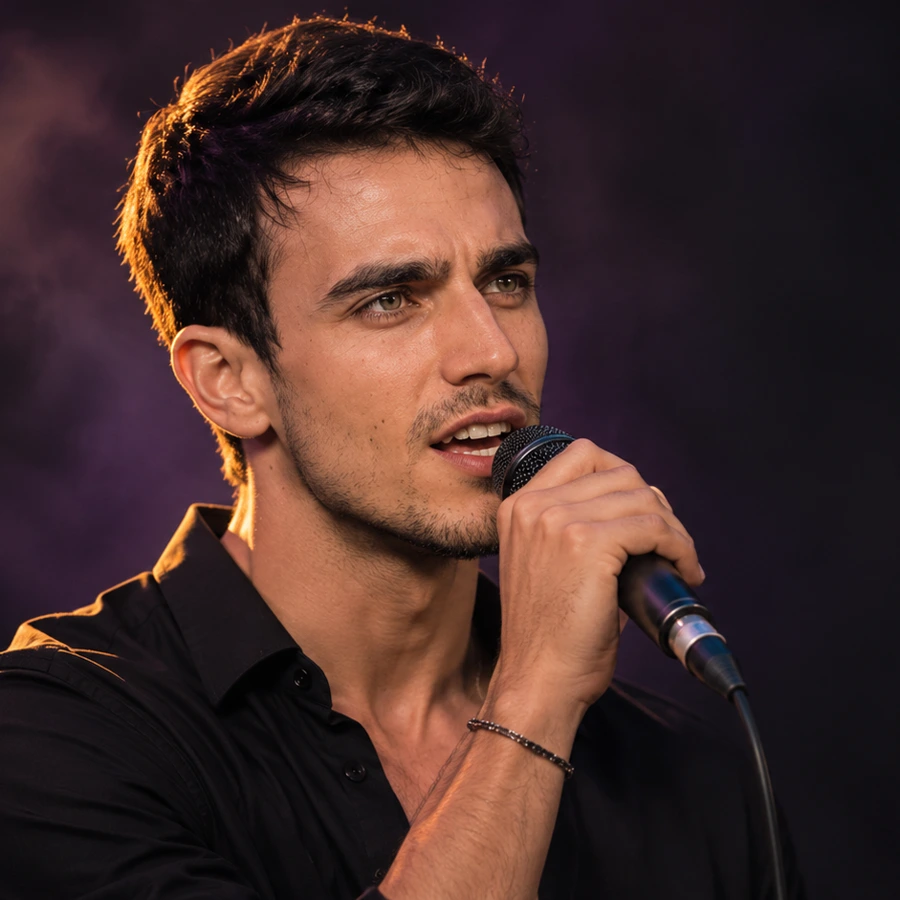
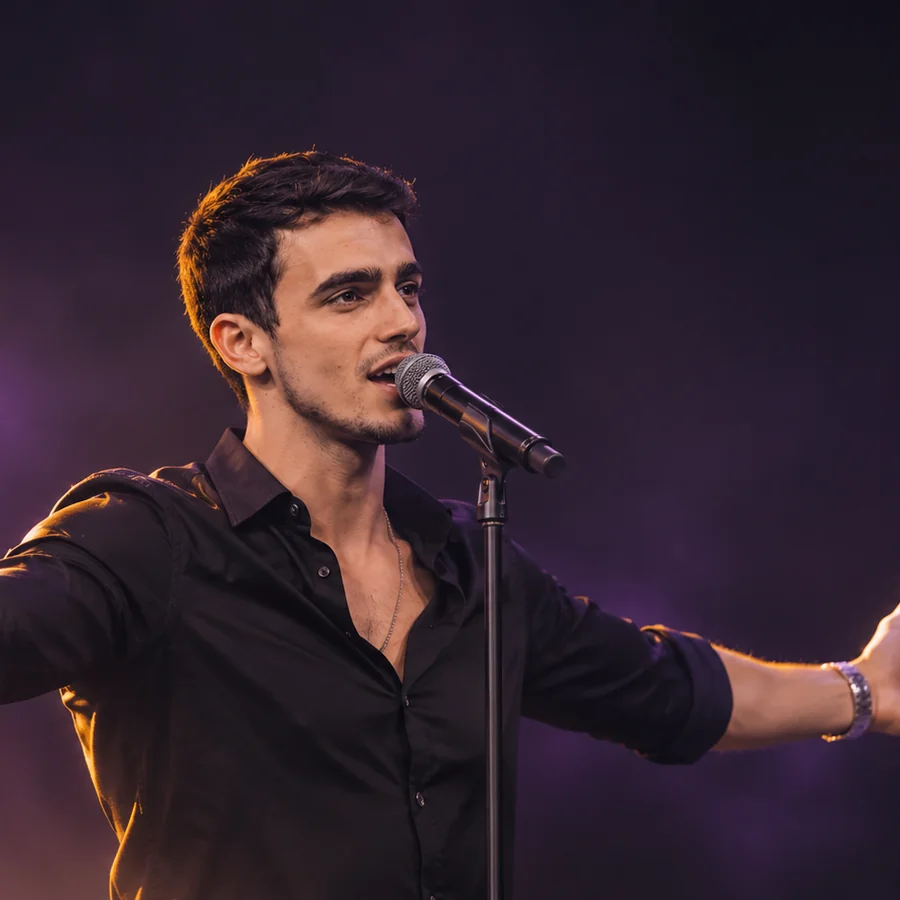
Add streaming links, new hero images, and fix artist name spelling
- Link Spotify, Apple Music, Deezer, TIDAL, YouTube and Instagram
- Replace desktop and mobile hero images
- Spell the name as עמרי across all pages
- Add cache-busting version to stylesheet and hero images

diff --git a/styles.css b/styles.css
@@ -1,18 +1,18 @@
 @font-face{font-family:Artist;src:url("assets/fonts/NotoSansHebrew-Regular.ttf");font-weight:400;font-display:swap}@font-face{font-family:Artist;src:url("assets/fonts/NotoSansHebrew-Bold.ttf");font-weight:700 900;font-display:swap}
-:root{--paper:#f6e9d5;--amber:#f8a936;--bg:#130e17;--line:#8f7f85;--muted:#bdb0bb}*{box-sizing:border-box}html{scroll-behavior:smooth}body{margin:0;background:var(--bg);color:var(--paper);font-family:Artist,Arial,sans-serif;line-height:1.6;background-image:radial-gradient(ellipse at 15% 25%,#3b233442,transparent 55%)}button,input,select,textarea{font:inherit}a{color:inherit;text-decoration:none}button,a{touch-action:manipulation}button{cursor:pointer}button:disabled{cursor:default}a,button,input,select,textarea{outline-offset:5px}:focus-visible{outline:2px solid var(--amber)}button{color:inherit}img{display:block;max-width:100%}.container{width:90%;max-width:1320px;margin:auto}.header{height:80px;display:flex;align-items:center;justify-content:space-between;position:relative;z-index:5}.logo{font-size:32px;font-weight:700;line-height:1.1}.header .logo{order:2}nav{display:flex;gap:44px}nav a{padding:10px 4px}nav a[aria-current]{color:var(--amber);border-bottom:2px solid}.menu{display:none;background:none;border:0;font-size:25px;padding:8px}.hero{position:relative;min-height:440px;display:flex;align-items:center;isolation:isolate}.hero:before{content:"";position:absolute;inset:-80px 0 -20px;z-index:-1;background:linear-gradient(0deg,var(--bg),transparent 15%),linear-gradient(270deg,var(--bg) 0%,#130e17dd 24%,transparent 64%),url("assets/images/hero.webp") left center/70% auto no-repeat}.hero-copy{width:48%;text-align:center;margin-inline-start:0;margin-inline-end:auto}.hero h1{font-size:clamp(60px,8vw,116px);font-weight:700;line-height:1.2;letter-spacing:-5px;margin:0}.brush{width:225px;height:18px;margin:8px auto 25px;background:var(--amber);clip-path:polygon(0 83%,73% 0,72% 20%,100% 7%,64% 40%,28% 90%,34% 58%,0 100%);transform:rotate(-3deg)}.cta{border:0;display:inline-flex;justify-content:center;align-items:center;gap:12px;background:var(--amber);color:#261910;padding:9px 38px;font-size:25px;font-weight:700;min-height:48px;border-radius:2px;box-shadow:inset 0 0 25px #f9cf6230}.cta:hover{background:#ffc064}.section{margin-block:22px 36px}.section-heading{display:flex;align-items:center;gap:20px;margin-bottom:22px}.section-heading h2{font-size:36px;line-height:1.2;margin:0}.section-heading:after{content:"";height:1px;background:var(--line);flex:1}.number{color:var(--amber);font-size:24px;font-style:italic;font-family:Arial}.songs{display:grid;grid-template-columns:repeat(3,1fr);gap:6%;padding-inline:7%}.song{text-align:center}.song img{width:100%;aspect-ratio:1.2;object-fit:cover}.song h3{font-size:24px;margin:5px 0 0}.text-button{border:0;background:none;padding:5px 10px;min-height:44px;color:var(--amber);font-weight:700;font-size:18px}.text-button:hover{text-decoration:underline}.platforms{display:flex;align-items:center;justify-content:center;flex-wrap:wrap;gap:0;border-block:1px solid #6f5c6e;padding:12px 0;margin-block:22px}.platform{display:flex;align-items:center;gap:10px;padding:2px 26px;min-height:44px;direction:ltr;border-left:1px solid #a28a9b;font-family:Arial,sans-serif;font-size:20px}.platform:last-child{border-left:0}.platform svg{width:27px;height:27px;fill:currentColor}.platform:hover{color:var(--amber)}.video-grid{display:grid;grid-template-columns:repeat(2,1fr);gap:38px;padding-inline:5%}.video-button{display:block;width:100%;padding:0;border:0;background:none;overflow:hidden}.video-button img{width:100%;aspect-ratio:2.87;object-fit:cover;transition:transform .3s}.video-button:hover img{transform:scale(1.04)}.all-videos{text-align:center;margin:6px 0 0}.footer{display:flex;align-items:center;justify-content:space-between;border-top:1px solid var(--line);padding-block:14px;margin-top:12px}.footer .logo{font-size:24px}.footer .platforms{border:0;margin:0;padding:0;gap:16px}.footer .platform{border:0;padding:0}.footer .platform-label{display:none}.footer svg{width:22px;height:22px}.page-title{font-size:clamp(40px,6vw,76px);margin:35px 0 10px;line-height:1.2}.intro{color:var(--muted);margin-bottom:30px}.featured{max-width:1050px;margin:30px auto}.featured .video-button img{aspect-ratio:16/9}.video-caption{display:flex;justify-content:space-between;align-items:center;gap:15px;padding-block:9px}.video-caption h2,.video-caption h3{margin:0;font-size:22px}.video-caption span{color:var(--muted);font-size:14px}.gallery{padding:0;gap:32px}.gallery .video-button img{aspect-ratio:16/9}.contact-layout{display:grid;grid-template-columns:1.5fr 1fr;gap:10%;margin:40px 0 70px}label{display:grid;gap:8px;margin-bottom:22px}input,select,textarea{border:1px solid #6a5368;background:#211825;color:var(--paper);border-radius:3px;padding:13px;width:100%}textarea{min-height:160px;resize:vertical}aside{border-right:1px solid #755674;padding-right:35px}aside h2{font-size:28px}aside p{color:var(--muted)}.error{color:#ffb1ae;font-size:14px}.status{padding:16px;border:1px solid #aa9164}.notice{color:var(--muted);font-size:13px}.field-error{border-color:#ffb1ae}dialog{width:min(92%,600px);background:#201725;color:var(--paper);border:1px solid #967483;border-radius:5px;padding:30px}dialog::backdrop{background:#09050be8}dialog h2{font-size:30px;margin:0 0 20px}dialog .platforms{justify-content:start}dialog .platform{border:0;padding:12px}.close{float:left;border:1px solid #967483;background:none;min-width:44px;min-height:44px}dialog video{width:100%;margin-top:16px}.skip{position:absolute;top:-100px;right:10px;background:var(--amber);color:#111;padding:10px;z-index:50}.skip:focus{top:10px}[hidden]{display:none!important}
+:root{--paper:#f6e9d5;--amber:#f8a936;--bg:#130e17;--line:#8f7f85;--muted:#bdb0bb}*{box-sizing:border-box}html{scroll-behavior:smooth}body{margin:0;background:var(--bg);color:var(--paper);font-family:Artist,Arial,sans-serif;line-height:1.6;background-image:radial-gradient(ellipse at 15% 25%,#3b233442,transparent 55%)}button,input,select,textarea{font:inherit}a{color:inherit;text-decoration:none}button,a{touch-action:manipulation}button{cursor:pointer}button:disabled{cursor:default}a,button,input,select,textarea{outline-offset:5px}:focus-visible{outline:2px solid var(--amber)}button{color:inherit}img{display:block;max-width:100%}.container{width:90%;max-width:1320px;margin:auto}.header{height:80px;display:flex;align-items:center;justify-content:space-between;position:relative;z-index:5}.logo{font-size:32px;font-weight:700;line-height:1.1}.header .logo{order:2}nav{display:flex;gap:44px}nav a{padding:10px 4px}nav a[aria-current]{color:var(--amber);border-bottom:2px solid}.menu{display:none;background:none;border:0;font-size:25px;padding:8px}.hero{position:relative;min-height:440px;display:flex;align-items:center;isolation:isolate}.hero:before{content:"";position:absolute;inset:-80px 0 -20px;z-index:-1;background:linear-gradient(0deg,var(--bg),transparent 15%),linear-gradient(270deg,var(--bg) 0%,#130e17dd 24%,transparent 64%),url("assets/images/hero.webp?v=2") left center/70% auto no-repeat}.hero-copy{width:48%;text-align:center;margin-inline-start:0;margin-inline-end:auto}.hero h1{font-size:clamp(60px,8vw,116px);font-weight:700;line-height:1.2;letter-spacing:-5px;margin:0}.brush{width:225px;height:18px;margin:8px auto 25px;background:var(--amber);clip-path:polygon(0 83%,73% 0,72% 20%,100% 7%,64% 40%,28% 90%,34% 58%,0 100%);transform:rotate(-3deg)}.cta{border:0;display:inline-flex;justify-content:center;align-items:center;gap:12px;background:var(--amber);color:#261910;padding:9px 38px;font-size:25px;font-weight:700;min-height:48px;border-radius:2px;box-shadow:inset 0 0 25px #f9cf6230}.cta:hover{background:#ffc064}.section{margin-block:22px 36px}.section-heading{display:flex;align-items:center;gap:20px;margin-bottom:22px}.section-heading h2{font-size:36px;line-height:1.2;margin:0}.section-heading:after{content:"";height:1px;background:var(--line);flex:1}.number{color:var(--amber);font-size:24px;font-style:italic;font-family:Arial}.songs{display:grid;grid-template-columns:repeat(3,1fr);gap:6%;padding-inline:7%}.song{text-align:center}.song img{width:100%;aspect-ratio:1.2;object-fit:cover}.song h3{font-size:24px;margin:5px 0 0}.text-button{border:0;background:none;padding:5px 10px;min-height:44px;color:var(--amber);font-weight:700;font-size:18px}.text-button:hover{text-decoration:underline}.platforms{display:flex;align-items:center;justify-content:center;flex-wrap:wrap;gap:0;border-block:1px solid #6f5c6e;padding:12px 0;margin-block:22px}.platform{display:flex;align-items:center;gap:10px;padding:2px 26px;min-height:44px;direction:ltr;border-left:1px solid #a28a9b;font-family:Arial,sans-serif;font-size:20px}.platform:last-child{border-left:0}.platform svg{width:27px;height:27px;fill:currentColor}.platform:hover{color:var(--amber)}.video-grid{display:grid;grid-template-columns:repeat(2,1fr);gap:38px;padding-inline:5%}.video-button{display:block;width:100%;padding:0;border:0;background:none;overflow:hidden}.video-button img{width:100%;aspect-ratio:2.87;object-fit:cover;transition:transform .3s}.video-button:hover img{transform:scale(1.04)}.all-videos{text-align:center;margin:6px 0 0}.footer{display:flex;align-items:center;justify-content:space-between;border-top:1px solid var(--line);padding-block:14px;margin-top:12px}.footer .logo{font-size:24px}.footer .platforms{border:0;margin:0;padding:0;gap:16px}.footer .platform{border:0;padding:0}.footer .platform-label{display:none}.footer svg{width:22px;height:22px}.page-title{font-size:clamp(40px,6vw,76px);margin:35px 0 10px;line-height:1.2}.intro{color:var(--muted);margin-bottom:30px}.featured{max-width:1050px;margin:30px auto}.featured .video-button img{aspect-ratio:16/9}.video-caption{display:flex;justify-content:space-between;align-items:center;gap:15px;padding-block:9px}.video-caption h2,.video-caption h3{margin:0;font-size:22px}.video-caption span{color:var(--muted);font-size:14px}.gallery{padding:0;gap:32px}.gallery .video-button img{aspect-ratio:16/9}.contact-layout{display:grid;grid-template-columns:1.5fr 1fr;gap:10%;margin:40px 0 70px}label{display:grid;gap:8px;margin-bottom:22px}input,select,textarea{border:1px solid #6a5368;background:#211825;color:var(--paper);border-radius:3px;padding:13px;width:100%}textarea{min-height:160px;resize:vertical}aside{border-right:1px solid #755674;padding-right:35px}aside h2{font-size:28px}aside p{color:var(--muted)}.error{color:#ffb1ae;font-size:14px}.status{padding:16px;border:1px solid #aa9164}.notice{color:var(--muted);font-size:13px}.field-error{border-color:#ffb1ae}dialog{width:min(92%,600px);background:#201725;color:var(--paper);border:1px solid #967483;border-radius:5px;padding:30px}dialog::backdrop{background:#09050be8}dialog h2{font-size:30px;margin:0 0 20px}dialog .platforms{justify-content:start}dialog .platform{border:0;padding:12px}.close{float:left;border:1px solid #967483;background:none;min-width:44px;min-height:44px}dialog video{width:100%;margin-top:16px}.skip{position:absolute;top:-100px;right:10px;background:var(--amber);color:#111;padding:10px;z-index:50}.skip:focus{top:10px}[hidden]{display:none!important}
 @media(min-width:1600px){.hero{min-height:540px}}
-@media(max-width:700px){.container{width:90%}.header{height:60px}.header .logo{order:0;font-size:25px}.menu{display:block}.header nav{display:none;position:absolute;top:60px;right:-5.55%;left:-5.55%;background:#201625;padding:15px 5%;flex-direction:column;gap:0;box-shadow:0 15px 35px #0008}.header nav.open{display:flex}.header nav a{padding:14px}.hero{min-height:370px;align-items:end}.hero:before{inset:-60px -5.55% 0;background:linear-gradient(0deg,var(--bg),#130e1700 70%),url("assets/images/hero-mobile.webp") center top/cover no-repeat}.hero-copy{width:100%;padding-top:190px}.hero h1{font-size:54px;letter-spacing:-2px}.brush{width:160px;height:12px;margin:0 auto 15px}.cta{font-size:20px;padding:5px 28px;min-height:44px}.section{margin-block:25px 12px}.section-heading{gap:12px;margin-bottom:10px}.section-heading h2{font-size:25px}.number{font-size:19px}.songs{display:flex;flex-direction:column;padding:0;gap:0}.song{display:grid;grid-template-columns:80px 1fr;column-gap:16px;align-items:center;border-bottom:1px solid #675365;padding:9px 0;text-align:right}.song img{grid-row:1/3;width:80px;height:76px;aspect-ratio:auto}.song h3{font-size:20px;align-self:end;margin:0}.song .text-button{justify-self:start;align-self:start;font-size:16px;padding:0;min-height:32px}.platforms{margin-block:12px;padding-block:8px;row-gap:0}.platform{font-size:12px;padding:0 10px;gap:5px;min-height:36px}.platform svg{width:19px;height:19px}.platform:nth-child(3){border-left:0}.video-grid{grid-template-columns:1fr;padding:0;gap:12px}.video-button img{aspect-ratio:2.4}.all-videos{margin-block:0}.text-button{font-size:16px}.footer{padding-block:12px}.footer .logo{font-size:20px}.footer .platforms{gap:12px}.footer svg{width:17px;height:17px}.footer .platform{min-height:28px}.page-title{font-size:44px;margin-top:25px}.video-caption{align-items:start;flex-direction:column;gap:0}.video-caption h2,.video-caption h3{font-size:19px}.featured{margin-top:20px}.contact-layout{grid-template-columns:1fr;gap:30px}aside{padding:20px 0;border-right:0;border-top:1px solid #755674}dialog{padding:20px}dialog .platform{font-size:17px}.intro{font-size:15px}}
+@media(max-width:700px){.container{width:90%}.header{height:60px}.header .logo{order:0;font-size:25px}.menu{display:block}.header nav{display:none;position:absolute;top:60px;right:-5.55%;left:-5.55%;background:#201625;padding:15px 5%;flex-direction:column;gap:0;box-shadow:0 15px 35px #0008}.header nav.open{display:flex}.header nav a{padding:14px}.hero{min-height:370px;align-items:end}.hero:before{inset:-60px -5.55% 0;background:linear-gradient(0deg,var(--bg),#130e1700 70%),url("assets/images/hero-mobile.webp?v=2") center top/cover no-repeat}.hero-copy{width:100%;padding-top:190px}.hero h1{font-size:54px;letter-spacing:-2px}.brush{width:160px;height:12px;margin:0 auto 15px}.cta{font-size:20px;padding:5px 28px;min-height:44px}.section{margin-block:25px 12px}.section-heading{gap:12px;margin-bottom:10px}.section-heading h2{font-size:25px}.number{font-size:19px}.songs{display:flex;flex-direction:column;padding:0;gap:0}.song{display:grid;grid-template-columns:80px 1fr;column-gap:16px;align-items:center;border-bottom:1px solid #675365;padding:9px 0;text-align:right}.song img{grid-row:1/3;width:80px;height:76px;aspect-ratio:auto}.song h3{font-size:20px;align-self:end;margin:0}.song .text-button{justify-self:start;align-self:start;font-size:16px;padding:0;min-height:32px}.platforms{margin-block:12px;padding-block:8px;row-gap:0}.platform{font-size:12px;padding:0 10px;gap:5px;min-height:36px}.platform svg{width:19px;height:19px}.platform:nth-child(3){border-left:0}.video-grid{grid-template-columns:1fr;padding:0;gap:12px}.video-button img{aspect-ratio:2.4}.all-videos{margin-block:0}.text-button{font-size:16px}.footer{padding-block:12px}.footer .logo{font-size:20px}.footer .platforms{gap:12px}.footer svg{width:17px;height:17px}.footer .platform{min-height:28px}.page-title{font-size:44px;margin-top:25px}.video-caption{align-items:start;flex-direction:column;gap:0}.video-caption h2,.video-caption h3{font-size:19px}.featured{margin-top:20px}.contact-layout{grid-template-columns:1fr;gap:30px}aside{padding:20px 0;border-right:0;border-top:1px solid #755674}dialog{padding:20px}dialog .platform{font-size:17px}.intro{font-size:15px}}
 @media(prefers-reduced-motion:reduce){html{scroll-behavior:auto}*{transition:none!important}}
 
 /* Omri Israel imagery and responsive art direction. */
-.hero:before{background:linear-gradient(0deg,var(--bg),transparent 20%),linear-gradient(270deg,var(--bg) 0%,#130e1790 25%,transparent 58%),url("assets/images/hero.webp") left top/100% auto no-repeat}
+.hero:before{background:linear-gradient(0deg,var(--bg),transparent 20%),linear-gradient(270deg,var(--bg) 0%,#130e1790 25%,transparent 58%),url("assets/images/hero.webp?v=2") left top/100% auto no-repeat}
 .hero h1{font-size:clamp(48px,6.7vw,96px);letter-spacing:-3px}
 .video-button{position:relative}
 .video-button:after{content:"▶";position:absolute;inset:0;margin:auto;width:52px;height:52px;border:2px solid var(--paper);border-radius:50%;background:#130e1770;display:grid;place-items:center;font-size:22px;color:var(--paper);pointer-events:none}
 .video-button img{object-position:center 25%}
 .song img{object-position:center 35%}
 @media(max-width:700px){
- .hero:before{background:linear-gradient(0deg,var(--bg),#130e1700 73%),url("assets/images/hero-mobile.webp") center top/100% auto no-repeat}
+ .hero:before{background:linear-gradient(0deg,var(--bg),#130e1700 73%),url("assets/images/hero-mobile.webp?v=2") center top/100% auto no-repeat}
  .hero h1{font-size:clamp(36px,11vw,54px);letter-spacing:-1.5px}
  .hero-copy{padding-top:220px}
  .header .logo{font-size:23px}

diff --git a/index.html b/index.html
@@ -1,2 +1,2 @@
 <!doctype html>
-<html lang="he" dir="rtl"><head><meta charset="utf-8"><meta name="viewport" content="width=device-width,initial-scale=1"><meta name="theme-color" content="#130e17"><meta name="description" content="מוזיקה, רגעים מהופעות ויצירת קשר עם עומרי ישראל."><title>בית | עומרי ישראל</title><link rel="stylesheet" href="styles.css"><script defer src="site.js"></script></head><body><a class="skip" href="#main">דילוג לתוכן</a><div class="container"><header class="header"><a href="index.html" class="logo">עומרי ישראל</a><button class="menu" aria-controls="navigation" aria-expanded="false" aria-label="פתיחת תפריט">☰</button><nav id="navigation" aria-label="ניווט ראשי"><a href="index.html" aria-current="page">בית</a><a href="videos.html">וידאו מהופעות</a><a href="contact.html">יצירת קשר</a></nav></header><main id="main"><section class="hero"><div class="hero-copy"><h1>עומרי ישראל</h1><div class="brush" aria-hidden="true"></div><a class="cta" href="#songs">להאזנה לשירים ‹</a></div></section><section class="section" id="songs"><div class="section-heading"><span class="number">01/</span><h2>שירים נבחרים</h2></div><div class="songs"><article class="song"><img src="assets/images/album-1.webp" srcset="assets/images/album-1-mobile.webp 300w, assets/images/album-1.webp 1254w" sizes="(max-width: 700px) 80px, 27vw" alt="עטיפת שיר ראשון" width="227" height="190"><h3>שיר ראשון</h3><button class="text-button" data-song="0">איפה לשמוע ‹</button></article><article class="song"><img src="assets/images/album-2.webp" srcset="assets/images/album-2-mobile.webp 300w, assets/images/album-2.webp 1254w" sizes="(max-width: 700px) 80px, 27vw" alt="עטיפת שיר שני" width="227" height="190"><h3>שיר שני</h3><button class="text-button" data-song="1">איפה לשמוע ‹</button></article><article class="song"><img src="assets/images/album-3.webp" srcset="assets/images/album-3-mobile.webp 300w, assets/images/album-3.webp 1254w" sizes="(max-width: 700px) 80px, 27vw" alt="עטיפת שיר שלישי" width="227" height="190"><h3>שיר שלישי</h3><button class="text-button" data-song="2">איפה לשמוע ‹</button></article></div></section><div class="platforms" data-platforms aria-label="פלטפורמות האמן"></div><section class="section"><div class="section-heading"><span class="number">02/</span><h2>רגעים מהופעות</h2></div><div class="video-grid"><article><button class="video-button" data-video="1" aria-label="ניגון לילה של מוזיקה"><img src="assets/images/live-2.webp" srcset="assets/images/live-2-mobile.webp 780w, assets/images/live-2.webp 1672w" sizes="(max-width: 700px) 90vw, 45vw" alt="עומרי ישראל על הבמה" loading="lazy"></button></article><article><button class="video-button" data-video="0" aria-label="ניגון רגעים מהבמה"><img src="assets/images/live-1.webp" srcset="assets/images/live-1-mobile.webp 780w, assets/images/live-1.webp 1672w" sizes="(max-width: 700px) 90vw, 45vw" alt="עומרי ישראל על הבמה" loading="lazy"></button></article></div><p class="all-videos"><a class="text-button" href="videos.html">לכל הסרטונים ‹</a></p></section></main><footer class="footer"><a class="logo" href="index.html">עומרי ישראל</a><div class="platforms" data-platforms aria-label="קישורי האמן"></div></footer></div><dialog aria-labelledby="dialog-title"><button class="close" aria-label="סגירה">✕</button><h2 id="dialog-title"></h2><div id="dialog-content"></div></dialog></body></html>
+<html lang="he" dir="rtl"><head><meta charset="utf-8"><meta name="viewport" content="width=device-width,initial-scale=1"><meta name="theme-color" content="#130e17"><meta name="description" content="מוזיקה, רגעים מהופעות ויצירת קשר עם עמרי ישראל."><title>בית | עמרי ישראל</title><link rel="stylesheet" href="styles.css?v=2"><script defer src="site.js"></script></head><body><a class="skip" href="#main">דילוג לתוכן</a><div class="container"><header class="header"><a href="index.html" class="logo">עמרי ישראל</a><button class="menu" aria-controls="navigation" aria-expanded="false" aria-label="פתיחת תפריט">☰</button><nav id="navigation" aria-label="ניווט ראשי"><a href="index.html" aria-current="page">בית</a><a href="videos.html">וידאו מהופעות</a><a href="contact.html">יצירת קשר</a></nav></header><main id="main"><section class="hero"><div class="hero-copy"><h1>עמרי ישראל</h1><div class="brush" aria-hidden="true"></div><a class="cta" href="#songs">להאזנה לשירים ‹</a></div></section><section class="section" id="songs"><div class="section-heading"><span class="number">01/</span><h2>שירים נבחרים</h2></div><div class="songs"><article class="song"><img src="assets/images/album-1.webp" srcset="assets/images/album-1-mobile.webp 300w, assets/images/album-1.webp 1254w" sizes="(max-width: 700px) 80px, 27vw" alt="עטיפת שיר ראשון" width="227" height="190"><h3>שיר ראשון</h3><button class="text-button" data-song="0">איפה לשמוע ‹</button></article><article class="song"><img src="assets/images/album-2.webp" srcset="assets/images/album-2-mobile.webp 300w, assets/images/album-2.webp 1254w" sizes="(max-width: 700px) 80px, 27vw" alt="עטיפת שיר שני" width="227" height="190"><h3>שיר שני</h3><button class="text-button" data-song="1">איפה לשמוע ‹</button></article><article class="song"><img src="assets/images/album-3.webp" srcset="assets/images/album-3-mobile.webp 300w, assets/images/album-3.webp 1254w" sizes="(max-width: 700px) 80px, 27vw" alt="עטיפת שיר שלישי" width="227" height="190"><h3>שיר שלישי</h3><button class="text-button" data-song="2">איפה לשמוע ‹</button></article></div></section><div class="platforms" data-platforms aria-label="פלטפורמות האמן"></div><section class="section"><div class="section-heading"><span class="number">02/</span><h2>רגעים מהופעות</h2></div><div class="video-grid"><article><button class="video-button" data-video="1" aria-label="ניגון לילה של מוזיקה"><img src="assets/images/live-2.webp" srcset="assets/images/live-2-mobile.webp 780w, assets/images/live-2.webp 1672w" sizes="(max-width: 700px) 90vw, 45vw" alt="עמרי ישראל על הבמה" loading="lazy"></button></article><article><button class="video-button" data-video="0" aria-label="ניגון רגעים מהבמה"><img src="assets/images/live-1.webp" srcset="assets/images/live-1-mobile.webp 780w, assets/images/live-1.webp 1672w" sizes="(max-width: 700px) 90vw, 45vw" alt="עמרי ישראל על הבמה" loading="lazy"></button></article></div><p class="all-videos"><a class="text-button" href="videos.html">לכל הסרטונים ‹</a></p></section></main><footer class="footer"><a class="logo" href="index.html">עמרי ישראל</a><div class="platforms" data-platforms aria-label="קישורי האמן"></div></footer></div><dialog aria-labelledby="dialog-title"><button class="close" aria-label="סגירה">✕</button><h2 id="dialog-title"></h2><div id="dialog-content"></div></dialog></body></html>

diff --git a/videos.html b/videos.html
@@ -1,2 +1,2 @@
 <!doctype html>
-<html lang="he" dir="rtl"><head><meta charset="utf-8"><meta name="viewport" content="width=device-width,initial-scale=1"><meta name="theme-color" content="#130e17"><meta name="description" content="מוזיקה, רגעים מהופעות ויצירת קשר עם עומרי ישראל."><title>וידאו מהופעות | עומרי ישראל</title><link rel="stylesheet" href="styles.css"><script defer src="site.js"></script></head><body><a class="skip" href="#main">דילוג לתוכן</a><div class="container"><header class="header"><a href="index.html" class="logo">עומרי ישראל</a><button class="menu" aria-controls="navigation" aria-expanded="false" aria-label="פתיחת תפריט">☰</button><nav id="navigation" aria-label="ניווט ראשי"><a href="index.html">בית</a><a href="videos.html" aria-current="page">וידאו מהופעות</a><a href="contact.html">יצירת קשר</a></nav></header><main id="main"><h1 class="page-title">וידאו מהופעות</h1><p class="intro">רגעים מהבמה. קרוב למוזיקה.</p><div class="featured"><article><button class="video-button" data-video="0" aria-label="ניגון רגעים מהבמה"><img src="assets/images/live-1.webp" srcset="assets/images/live-1-mobile.webp 780w, assets/images/live-1.webp 1672w" sizes="(max-width: 700px) 90vw, 45vw" alt="עומרי ישראל על הבמה" loading="lazy"></button><div class="video-caption"><h3>רגעים מהבמה</h3><span>[מקום ההופעה] · [תאריך]</span></div></article></div><section class="section"><div class="section-heading"><span class="number">01/</span><h2>עוד מההופעות</h2></div><div class="video-grid gallery"><article><button class="video-button" data-video="1" aria-label="ניגון לילה של מוזיקה"><img src="assets/images/live-2.webp" srcset="assets/images/live-2-mobile.webp 780w, assets/images/live-2.webp 1672w" sizes="(max-width: 700px) 90vw, 45vw" alt="עומרי ישראל על הבמה" loading="lazy"></button><div class="video-caption"><h3>לילה של מוזיקה</h3><span>[מקום ההופעה] · [תאריך]</span></div></article><article><button class="video-button" data-video="0" aria-label="ניגון רגעים מהבמה"><img src="assets/images/live-1.webp" srcset="assets/images/live-1-mobile.webp 780w, assets/images/live-1.webp 1672w" sizes="(max-width: 700px) 90vw, 45vw" alt="עומרי ישראל על הבמה" loading="lazy"></button><div class="video-caption"><h3>רגעים מהבמה</h3><span>[מקום ההופעה] · [תאריך]</span></div></article></div></section></main><footer class="footer"><a class="logo" href="index.html">עומרי ישראל</a><div class="platforms" data-platforms aria-label="קישורי האמן"></div></footer></div><dialog aria-labelledby="dialog-title"><button class="close" aria-label="סגירה">✕</button><h2 id="dialog-title"></h2><div id="dialog-content"></div></dialog></body></html>
+<html lang="he" dir="rtl"><head><meta charset="utf-8"><meta name="viewport" content="width=device-width,initial-scale=1"><meta name="theme-color" content="#130e17"><meta name="description" content="מוזיקה, רגעים מהופעות ויצירת קשר עם עמרי ישראל."><title>וידאו מהופעות | עמרי ישראל</title><link rel="stylesheet" href="styles.css?v=2"><script defer src="site.js"></script></head><body><a class="skip" href="#main">דילוג לתוכן</a><div class="container"><header class="header"><a href="index.html" class="logo">עמרי ישראל</a><button class="menu" aria-controls="navigation" aria-expanded="false" aria-label="פתיחת תפריט">☰</button><nav id="navigation" aria-label="ניווט ראשי"><a href="index.html">בית</a><a href="videos.html" aria-current="page">וידאו מהופעות</a><a href="contact.html">יצירת קשר</a></nav></header><main id="main"><h1 class="page-title">וידאו מהופעות</h1><p class="intro">רגעים מהבמה. קרוב למוזיקה.</p><div class="featured"><article><button class="video-button" data-video="0" aria-label="ניגון רגעים מהבמה"><img src="assets/images/live-1.webp" srcset="assets/images/live-1-mobile.webp 780w, assets/images/live-1.webp 1672w" sizes="(max-width: 700px) 90vw, 45vw" alt="עמרי ישראל על הבמה" loading="lazy"></button><div class="video-caption"><h3>רגעים מהבמה</h3><span>[מקום ההופעה] · [תאריך]</span></div></article></div><section class="section"><div class="section-heading"><span class="number">01/</span><h2>עוד מההופעות</h2></div><div class="video-grid gallery"><article><button class="video-button" data-video="1" aria-label="ניגון לילה של מוזיקה"><img src="assets/images/live-2.webp" srcset="assets/images/live-2-mobile.webp 780w, assets/images/live-2.webp 1672w" sizes="(max-width: 700px) 90vw, 45vw" alt="עמרי ישראל על הבמה" loading="lazy"></button><div class="video-caption"><h3>לילה של מוזיקה</h3><span>[מקום ההופעה] · [תאריך]</span></div></article><article><button class="video-button" data-video="0" aria-label="ניגון רגעים מהבמה"><img src="assets/images/live-1.webp" srcset="assets/images/live-1-mobile.webp 780w, assets/images/live-1.webp 1672w" sizes="(max-width: 700px) 90vw, 45vw" alt="עמרי ישראל על הבמה" loading="lazy"></button><div class="video-caption"><h3>רגעים מהבמה</h3><span>[מקום ההופעה] · [תאריך]</span></div></article></div></section></main><footer class="footer"><a class="logo" href="index.html">עמרי ישראל</a><div class="platforms" data-platforms aria-label="קישורי האמן"></div></footer></div><dialog aria-labelledby="dialog-title"><button class="close" aria-label="סגירה">✕</button><h2 id="dialog-title"></h2><div id="dialog-content"></div></dialog></body></html>

diff --git a/contact.html b/contact.html
@@ -1,2 +1,2 @@
 <!doctype html>
-<html lang="he" dir="rtl"><head><meta charset="utf-8"><meta name="viewport" content="width=device-width,initial-scale=1"><meta name="theme-color" content="#130e17"><meta name="description" content="מוזיקה, רגעים מהופעות ויצירת קשר עם עומרי ישראל."><title>יצירת קשר | עומרי ישראל</title><link rel="stylesheet" href="styles.css"><script defer src="site.js"></script></head><body><a class="skip" href="#main">דילוג לתוכן</a><div class="container"><header class="header"><a href="index.html" class="logo">עומרי ישראל</a><button class="menu" aria-controls="navigation" aria-expanded="false" aria-label="פתיחת תפריט">☰</button><nav id="navigation" aria-label="ניווט ראשי"><a href="index.html">בית</a><a href="videos.html">וידאו מהופעות</a><a href="contact.html" aria-current="page">יצירת קשר</a></nav></header><main id="main"><h1 class="page-title">יצירת קשר</h1><p class="intro">להזמנת הופעות, שיתופי פעולה וכל מה שביניהם.</p><div class="contact-layout"><form novalidate><label for="name">שם מלא<input id="name" name="name" autocomplete="name" aria-describedby="name-error" required><span class="error" id="name-error" hidden>יש להזין שם.</span></label><label for="email">אימייל<input id="email" name="email" type="email" dir="ltr" autocomplete="email" aria-describedby="email-error" required><span class="error" id="email-error" hidden>יש להזין כתובת אימייל תקינה.</span></label><label for="topic">נושא הפנייה<select id="topic" name="topic"><option>הזמנת הופעה</option><option>שיתוף פעולה</option><option>פנייה כללית</option></select></label><label for="message">הודעה<textarea id="message" name="message" aria-describedby="message-error" required></textarea><span class="error" id="message-error" hidden>יש לכתוב הודעה.</span></label><button class="cta" type="submit">שליחת הודעה ‹</button><p class="notice">תצוגת עיצוב. שירות שליחת ההודעות טרם חובר.</p><p id="form-status" class="status" role="status" tabindex="-1" hidden></p></form><aside><h2>ניפגש בהופעה הבאה</h2><p>להזמנות ולפניות להנהלה</p><span data-booking>[כתובת מייל להזמנות]</span><h2>בואו נשמור על קשר</h2><div class="platforms" data-platforms></div></aside></div></main><footer class="footer"><a class="logo" href="index.html">עומרי ישראל</a><div class="platforms" data-platforms aria-label="קישורי האמן"></div></footer></div><dialog aria-labelledby="dialog-title"><button class="close" aria-label="סגירה">✕</button><h2 id="dialog-title"></h2><div id="dialog-content"></div></dialog></body></html>
+<html lang="he" dir="rtl"><head><meta charset="utf-8"><meta name="viewport" content="width=device-width,initial-scale=1"><meta name="theme-color" content="#130e17"><meta name="description" content="מוזיקה, רגעים מהופעות ויצירת קשר עם עמרי ישראל."><title>יצירת קשר | עמרי ישראל</title><link rel="stylesheet" href="styles.css?v=2"><script defer src="site.js"></script></head><body><a class="skip" href="#main">דילוג לתוכן</a><div class="container"><header class="header"><a href="index.html" class="logo">עמרי ישראל</a><button class="menu" aria-controls="navigation" aria-expanded="false" aria-label="פתיחת תפריט">☰</button><nav id="navigation" aria-label="ניווט ראשי"><a href="index.html">בית</a><a href="videos.html">וידאו מהופעות</a><a href="contact.html" aria-current="page">יצירת קשר</a></nav></header><main id="main"><h1 class="page-title">יצירת קשר</h1><p class="intro">להזמנת הופעות, שיתופי פעולה וכל מה שביניהם.</p><div class="contact-layout"><form novalidate><label for="name">שם מלא<input id="name" name="name" autocomplete="name" aria-describedby="name-error" required><span class="error" id="name-error" hidden>יש להזין שם.</span></label><label for="email">אימייל<input id="email" name="email" type="email" dir="ltr" autocomplete="email" aria-describedby="email-error" required><span class="error" id="email-error" hidden>יש להזין כתובת אימייל תקינה.</span></label><label for="topic">נושא הפנייה<select id="topic" name="topic"><option>הזמנת הופעה</option><option>שיתוף פעולה</option><option>פנייה כללית</option></select></label><label for="message">הודעה<textarea id="message" name="message" aria-describedby="message-error" required></textarea><span class="error" id="message-error" hidden>יש לכתוב הודעה.</span></label><button class="cta" type="submit">שליחת הודעה ‹</button><p class="notice">תצוגת עיצוב. שירות שליחת ההודעות טרם חובר.</p><p id="form-status" class="status" role="status" tabindex="-1" hidden></p></form><aside><h2>ניפגש בהופעה הבאה</h2><p>להזמנות ולפניות להנהלה</p><span data-booking>[כתובת מייל להזמנות]</span><h2>בואו נשמור על קשר</h2><div class="platforms" data-platforms></div></aside></div></main><footer class="footer"><a class="logo" href="index.html">עמרי ישראל</a><div class="platforms" data-platforms aria-label="קישורי האמן"></div></footer></div><dialog aria-labelledby="dialog-title"><button class="close" aria-label="סגירה">✕</button><h2 id="dialog-title"></h2><div id="dialog-content"></div></dialog></body></html>

diff --git a/site.js b/site.js
@@ -1,6 +1,13 @@
 /* Replace null values with the artist's verified URLs and video files. */
 const artist = {
-  platforms: {Spotify:null,"Apple Music":null,Deezer:null,TIDAL:null,Instagram:null},
+  platforms: {
+    Spotify:"https://open.spotify.com/artist/3XdT1fvyQNNDWDrSXuE87g",
+    "Apple Music":"https://music.apple.com/us/artist/omri-israel/1848180581",
+    Deezer:"https://www.deezer.com/en/artist/352427122?host=6677498923&deferredFl=1&universal_link=1",
+    TIDAL:"https://tidal.com/artist/68797980",
+    YouTube:"https://www.youtube.com/@omriisrael9962",
+    Instagram:"https://www.instagram.com/omri_israel_/"
+  },
   tracks: [
     {title:"שיר ראשון",links:{}},
     {title:"שיר שני",links:{}},
@@ -17,6 +24,7 @@ const shapes = {
  "Apple Music":'<path d="M21 3v18a5 5 0 1 1-3-4V8L10 10v14a5 5 0 1 1-3-4V7z"/>',
  Deezer:'<path d="M2 23h4v6H2zm6-6h4v12H8zm6 3h4v9h-4zm6-12h4v21h-4zm6-6h4v27h-4z"/>',
  TIDAL:'<path d="m1 9 5-5 5 5-5 5zm10 0 5-5 5 5-5 5zm10 0 5-5 5 5-5 5zM11 19l5-5 5 5-5 5z"/>',
+ YouTube:'<rect x="2" y="7" width="28" height="18" rx="5"/><path d="M13 11.5v9l7-4.5z" fill="#170f1b"/>',
  Instagram:'<rect x="4" y="4" width="24" height="24" rx="6" fill="none" stroke="currentColor" stroke-width="2.6"/><circle cx="16" cy="16" r="6" fill="none" stroke="currentColor" stroke-width="2.6"/><circle cx="24" cy="8" r="1.7"/>'
 };
 const icon = name => '<svg viewBox="0 0 32 32" aria-hidden="true">'+shapes[name]+'</svg>';
@@ -54,7 +62,7 @@ dialog.addEventListener('click',event=>{if(event.target===dialog){const rect=dia
 document.querySelectorAll('[data-song]').forEach(button=>button.addEventListener('click',()=>{
  const track=artist.tracks[Number(button.dataset.song)];
  showDialog(track.title,'<p>בחרו איפה לשמוע</p><div class="platforms" id="track-links"></div>');
- Object.keys(artist.platforms).filter(name=>name!=='Instagram').forEach(name=>{
+ Object.keys(artist.platforms).filter(name=>name!=='Instagram'&&name!=='YouTube').forEach(name=>{
   const url=track.links[name];
   const a=document.createElement('a');a.className='platform';a.href=url||'#missing';a.innerHTML=icon(name)+name;
   if(url){a.target='_blank';a.rel='noopener noreferrer'}
